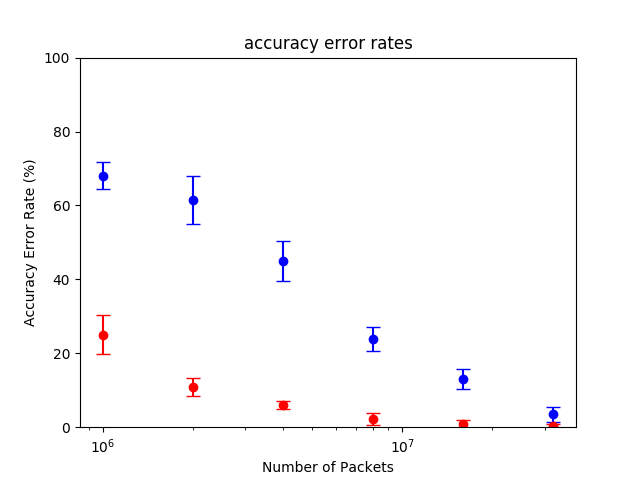
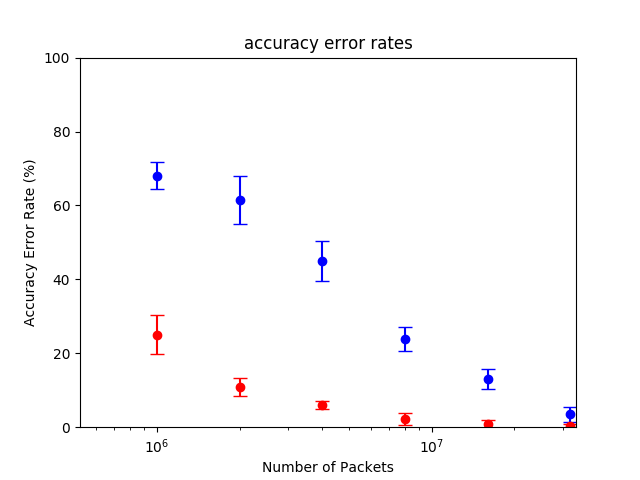
Set x ticks and labels

diff --git a/plot_graph.py b/plot_graph.py
@@ -59,6 +59,9 @@ def graph(rhh_confidence_intervals, _10_rhh_confidence_intervals, graph_name, x_
 	ax.set_xlabel(x_label)
 	ax.set_ylabel(y_label)
 	ax.set_ylim([0,100])
+	ax.set_xlim([2**19,2**25])
+	ax.set_xticks([2**x for x in range(19, 26)])
+	ax.set_xticklabels(["2^%s"%x for x in range(19, 26)])
 	ax.set_xscale("log")
 	plt.title(graph_name)
 	fig.savefig("_".join(graph_name.split()) + '_fig.png')
